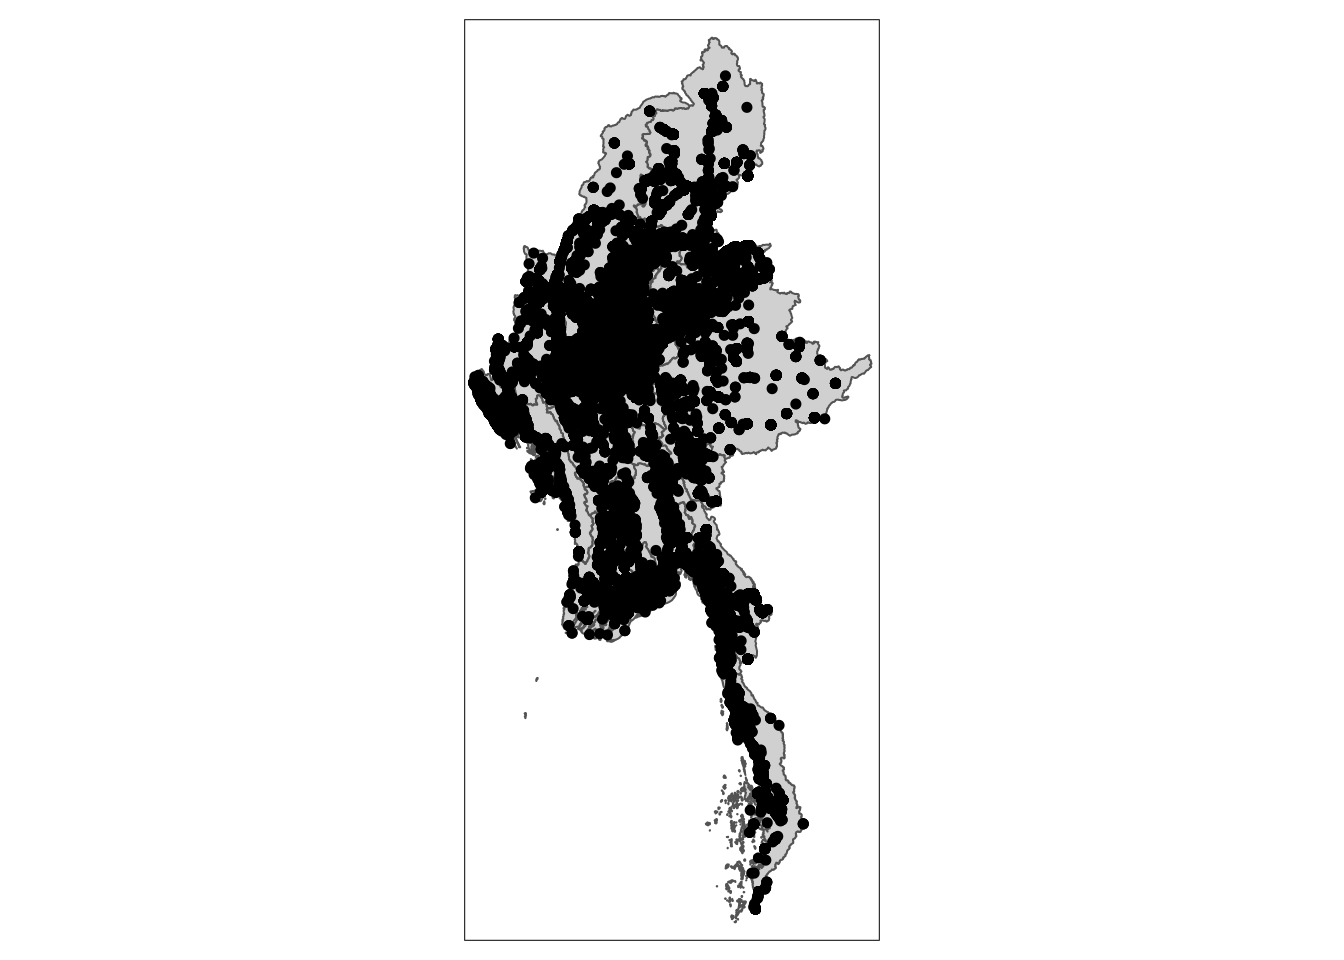
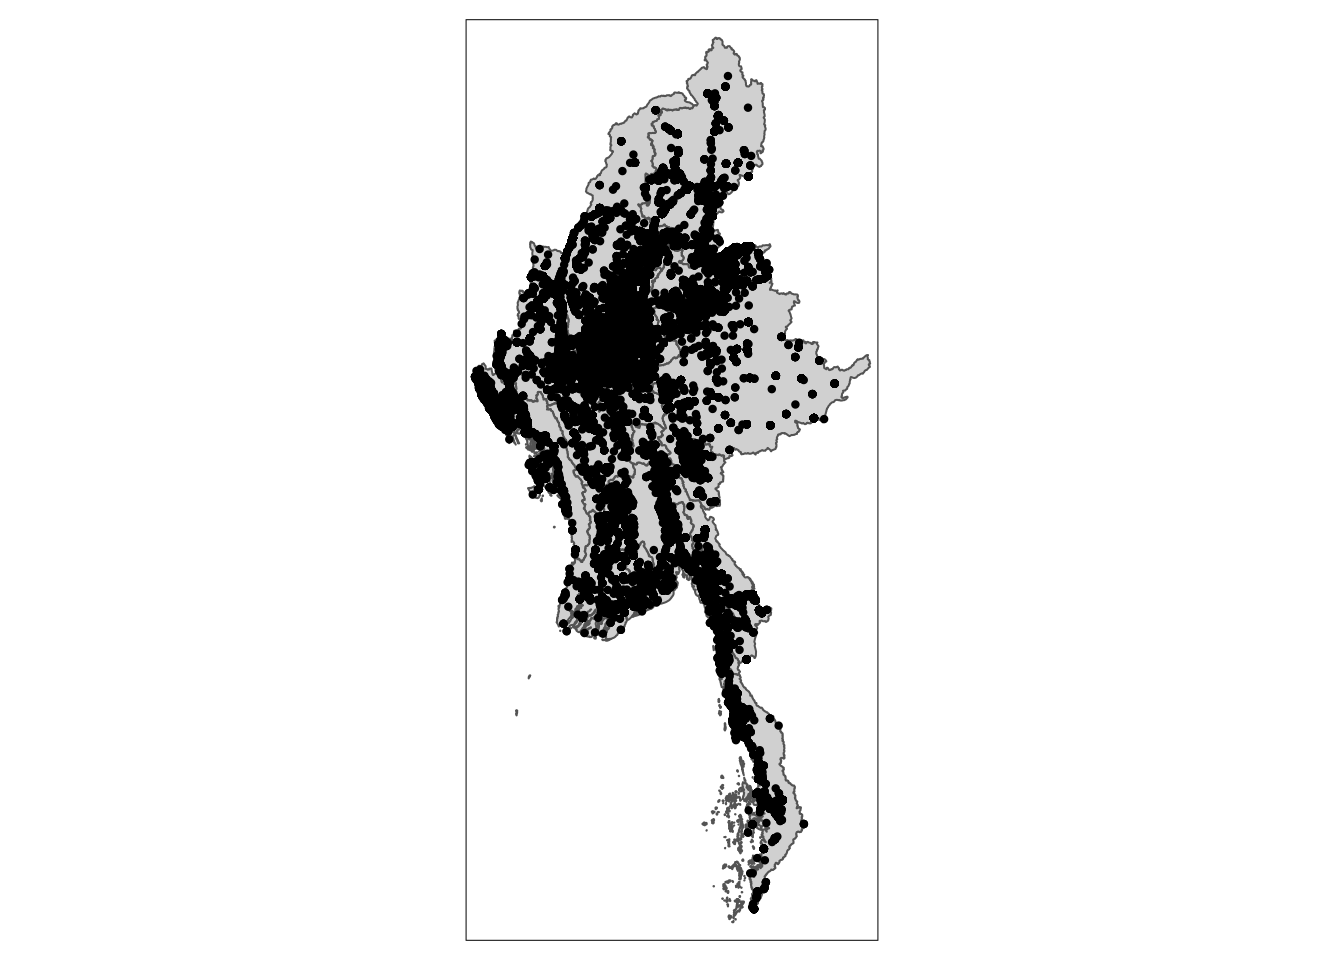
Plotted conflict areas for TH1

Changed region(s): [[0.3438, 0.0312, 0.6562, 0.9688]]

diff --git a/_site/TakeHome/TakeHome1/take-home-1.html b/_site/TakeHome/TakeHome1/take-home-1.html
@@ -210,7 +210,7 @@ pre > code.sourceCode > span > a:first-child::before { text-decoration: underlin
   <li><a href="#th1.3-importing-and-transforming-armed-conflict-data-and-administrative-boundary-data-into-sf-tibble-data.frames" id="toc-th1.3-importing-and-transforming-armed-conflict-data-and-administrative-boundary-data-into-sf-tibble-data.frames" class="nav-link" data-scroll-target="#th1.3-importing-and-transforming-armed-conflict-data-and-administrative-boundary-data-into-sf-tibble-data.frames">TH1.3 Importing and transforming armed conflict data and administrative boundary data into <code>sf</code> <code>tibble</code> <code>data.frames</code></a>
   <ul class="collapse">
   <li><a href="#th1.3.1-loading-r-packages-and-aspatial-data" id="toc-th1.3.1-loading-r-packages-and-aspatial-data" class="nav-link" data-scroll-target="#th1.3.1-loading-r-packages-and-aspatial-data">TH1.3.1 Loading R packages and aspatial data</a></li>
-  <li><a href="#th1.3.2-loading-geospatial-data" id="toc-th1.3.2-loading-geospatial-data" class="nav-link" data-scroll-target="#th1.3.2-loading-geospatial-data">TH1.3.2 Loading geospatial data</a></li>
+  <li><a href="#th1.3.2-loading-and-plotting-geospatial-data" id="toc-th1.3.2-loading-and-plotting-geospatial-data" class="nav-link" data-scroll-target="#th1.3.2-loading-and-plotting-geospatial-data">TH1.3.2 Loading and plotting geospatial data</a></li>
   <li><a href="#th1.3.3-creating-sf-data-frame-from-aspatial-data" id="toc-th1.3.3-creating-sf-data-frame-from-aspatial-data" class="nav-link" data-scroll-target="#th1.3.3-creating-sf-data-frame-from-aspatial-data">TH1.3.3 Creating <code>sf</code> data frame from aspatial data</a></li>
   </ul></li>
   <li><a href="#references" id="toc-references" class="nav-link" data-scroll-target="#references">References</a></li>
@@ -313,8 +313,8 @@ dbl (11): year, time_precision, inter1, inter2, interaction, iso, latitude, ...
 </div>
 </div>
 </section>
-<section id="th1.3.2-loading-geospatial-data" class="level3">
-<h3 class="anchored" data-anchor-id="th1.3.2-loading-geospatial-data">TH1.3.2 Loading geospatial data</h3>
+<section id="th1.3.2-loading-and-plotting-geospatial-data" class="level3">
+<h3 class="anchored" data-anchor-id="th1.3.2-loading-and-plotting-geospatial-data">TH1.3.2 Loading and plotting geospatial data</h3>
 <p>Three representations of Myanmar’s geography exist on - <code>Admin1</code> subdivides the country into its states and regions only, while <code>Admin2</code> subdivides the country by its smaller districts, and <code>Admin3</code> its townships. Further, the ACLED labels each incident with all 3 representations. For simplicity and ease of understanding, we shall use the <code>Admin1</code> representation.</p>
 <div class="cell">
 <div class="sourceCode cell-code" id="cb5"><pre class="sourceCode r code-with-copy"><code class="sourceCode r"><span id="cb5-1"><a href="#cb5-1" aria-hidden="true" tabindex="-1"></a>mmr_admin1 <span class="ot">&lt;-</span> <span class="fu">st_read</span>(<span class="at">dsn=</span><span class="st">"data/mmr_polbnda_adm1_250k_mimu_1"</span>, <span class="at">layer=</span><span class="st">"mmr_polbnda_adm1_250k_mimu_1"</span>)</span></code><button title="Copy to Clipboard" class="code-copy-button"><i class="bi"></i></button></pre></div>
@@ -375,11 +375,11 @@ First 10 features:
 <div class="cell">
 <div class="sourceCode cell-code" id="cb10"><pre class="sourceCode r code-with-copy"><code class="sourceCode r"><span id="cb10-1"><a href="#cb10-1" aria-hidden="true" tabindex="-1"></a>acled_mya_sf <span class="ot">&lt;-</span> <span class="fu">st_as_sf</span>(acled_mya, <span class="at">coords =</span> <span class="fu">c</span>(<span class="st">"longitude"</span>, <span class="st">"latitude"</span>), <span class="at">crs=</span><span class="dv">4326</span>) </span></code><button title="Copy to Clipboard" class="code-copy-button"><i class="bi"></i></button></pre></div>
 </div>
-<p>The EPSG area code for Myanmar is <a href="https://epsg.io/4239"><code>4239</code></a>.</p>
+<p>The EPSG area code for Myanmar is <a href="https://epsg.io/4239"><code>4239</code></a>. Before we work with our datasets, we will need to transform the coordinate system to use it.</p>
 <div class="cell">
-<div class="sourceCode cell-code" id="cb11"><pre class="sourceCode r code-with-copy"><code class="sourceCode r"><span id="cb11-1"><a href="#cb11-1" aria-hidden="true" tabindex="-1"></a>acled_mya_sf <span class="ot">&lt;-</span> acled_mya_sf <span class="sc">%&gt;%</span> <span class="fu">st_transform</span>(<span class="at">crs=</span><span class="dv">4239</span>)</span>
-<span id="cb11-2"><a href="#cb11-2" aria-hidden="true" tabindex="-1"></a>mmr_admin1 <span class="ot">&lt;-</span> mmr_admin1 <span class="sc">%&gt;%</span> <span class="fu">st_transform</span>(<span class="at">crs=</span><span class="dv">4239</span>)</span>
-<span id="cb11-3"><a href="#cb11-3" aria-hidden="true" tabindex="-1"></a><span class="fu">tm_shape</span>(mmr_admin1) <span class="sc">+</span> <span class="fu">tm_polygons</span>() <span class="sc">+</span> <span class="fu">tm_shape</span>(acled_mya_sf) <span class="sc">+</span> <span class="fu">tm_dots</span>(<span class="at">size=</span><span class="fl">0.1</span>)</span></code><button title="Copy to Clipboard" class="code-copy-button"><i class="bi"></i></button></pre></div>
+<div class="sourceCode cell-code" id="cb11"><pre class="sourceCode r code-with-copy"><code class="sourceCode r"><span id="cb11-1"><a href="#cb11-1" aria-hidden="true" tabindex="-1"></a>acled_mya_sf <span class="ot">&lt;-</span> acled_mya_sf <span class="sc">%&gt;%</span> <span class="fu">st_transform</span>(<span class="at">crs=</span><span class="dv">32647</span>)</span>
+<span id="cb11-2"><a href="#cb11-2" aria-hidden="true" tabindex="-1"></a>mmr_admin1 <span class="ot">&lt;-</span> mmr_admin1 <span class="sc">%&gt;%</span> <span class="fu">st_transform</span>(<span class="at">crs=</span><span class="dv">32647</span>)</span>
+<span id="cb11-3"><a href="#cb11-3" aria-hidden="true" tabindex="-1"></a><span class="fu">tm_shape</span>(mmr_admin1) <span class="sc">+</span> <span class="fu">tm_polygons</span>() <span class="sc">+</span> <span class="fu">tm_shape</span>(acled_mya_sf) <span class="sc">+</span> <span class="fu">tm_dots</span>(<span class="at">size=</span><span class="fl">0.05</span>)</span></code><button title="Copy to Clipboard" class="code-copy-button"><i class="bi"></i></button></pre></div>
 <div class="cell-output-display">
 <div>
 <figure class="figure">
